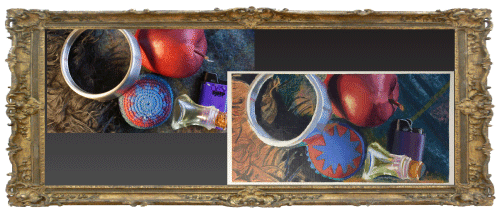
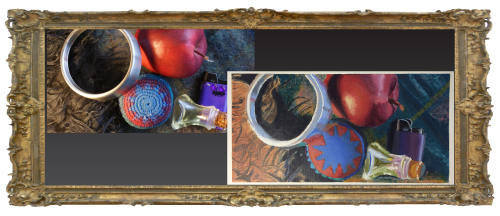
updates
add cleaner imgs

still testing for mobile

diff --git a/index.html b/index.html
@@ -19,7 +19,7 @@
 					<img src="img/picLamp.png" alt="Picture Lamp" class="img picLamp">
 					<div id="shimmerWrap1" class="shimmerWrap">
 						<div id="shimmer1" class="shimmer"></div>
-						<img src="img/nightAndDay.gif" alt="Night and Day Shack" class="img art art1">
+						<img src="img/nightAndDay.png" alt="Night and Day Shack" class="img art art1">
 					</div>
 					<title></title>
 					<p></p>

diff --git a/gallery.css b/gallery.css
@@ -1,7 +1,7 @@
 /* GALLERY CSS */
 
 html {
-	width: 1000%;
+	width: 1750%;
 }
 
 html, body, #wrapper {
